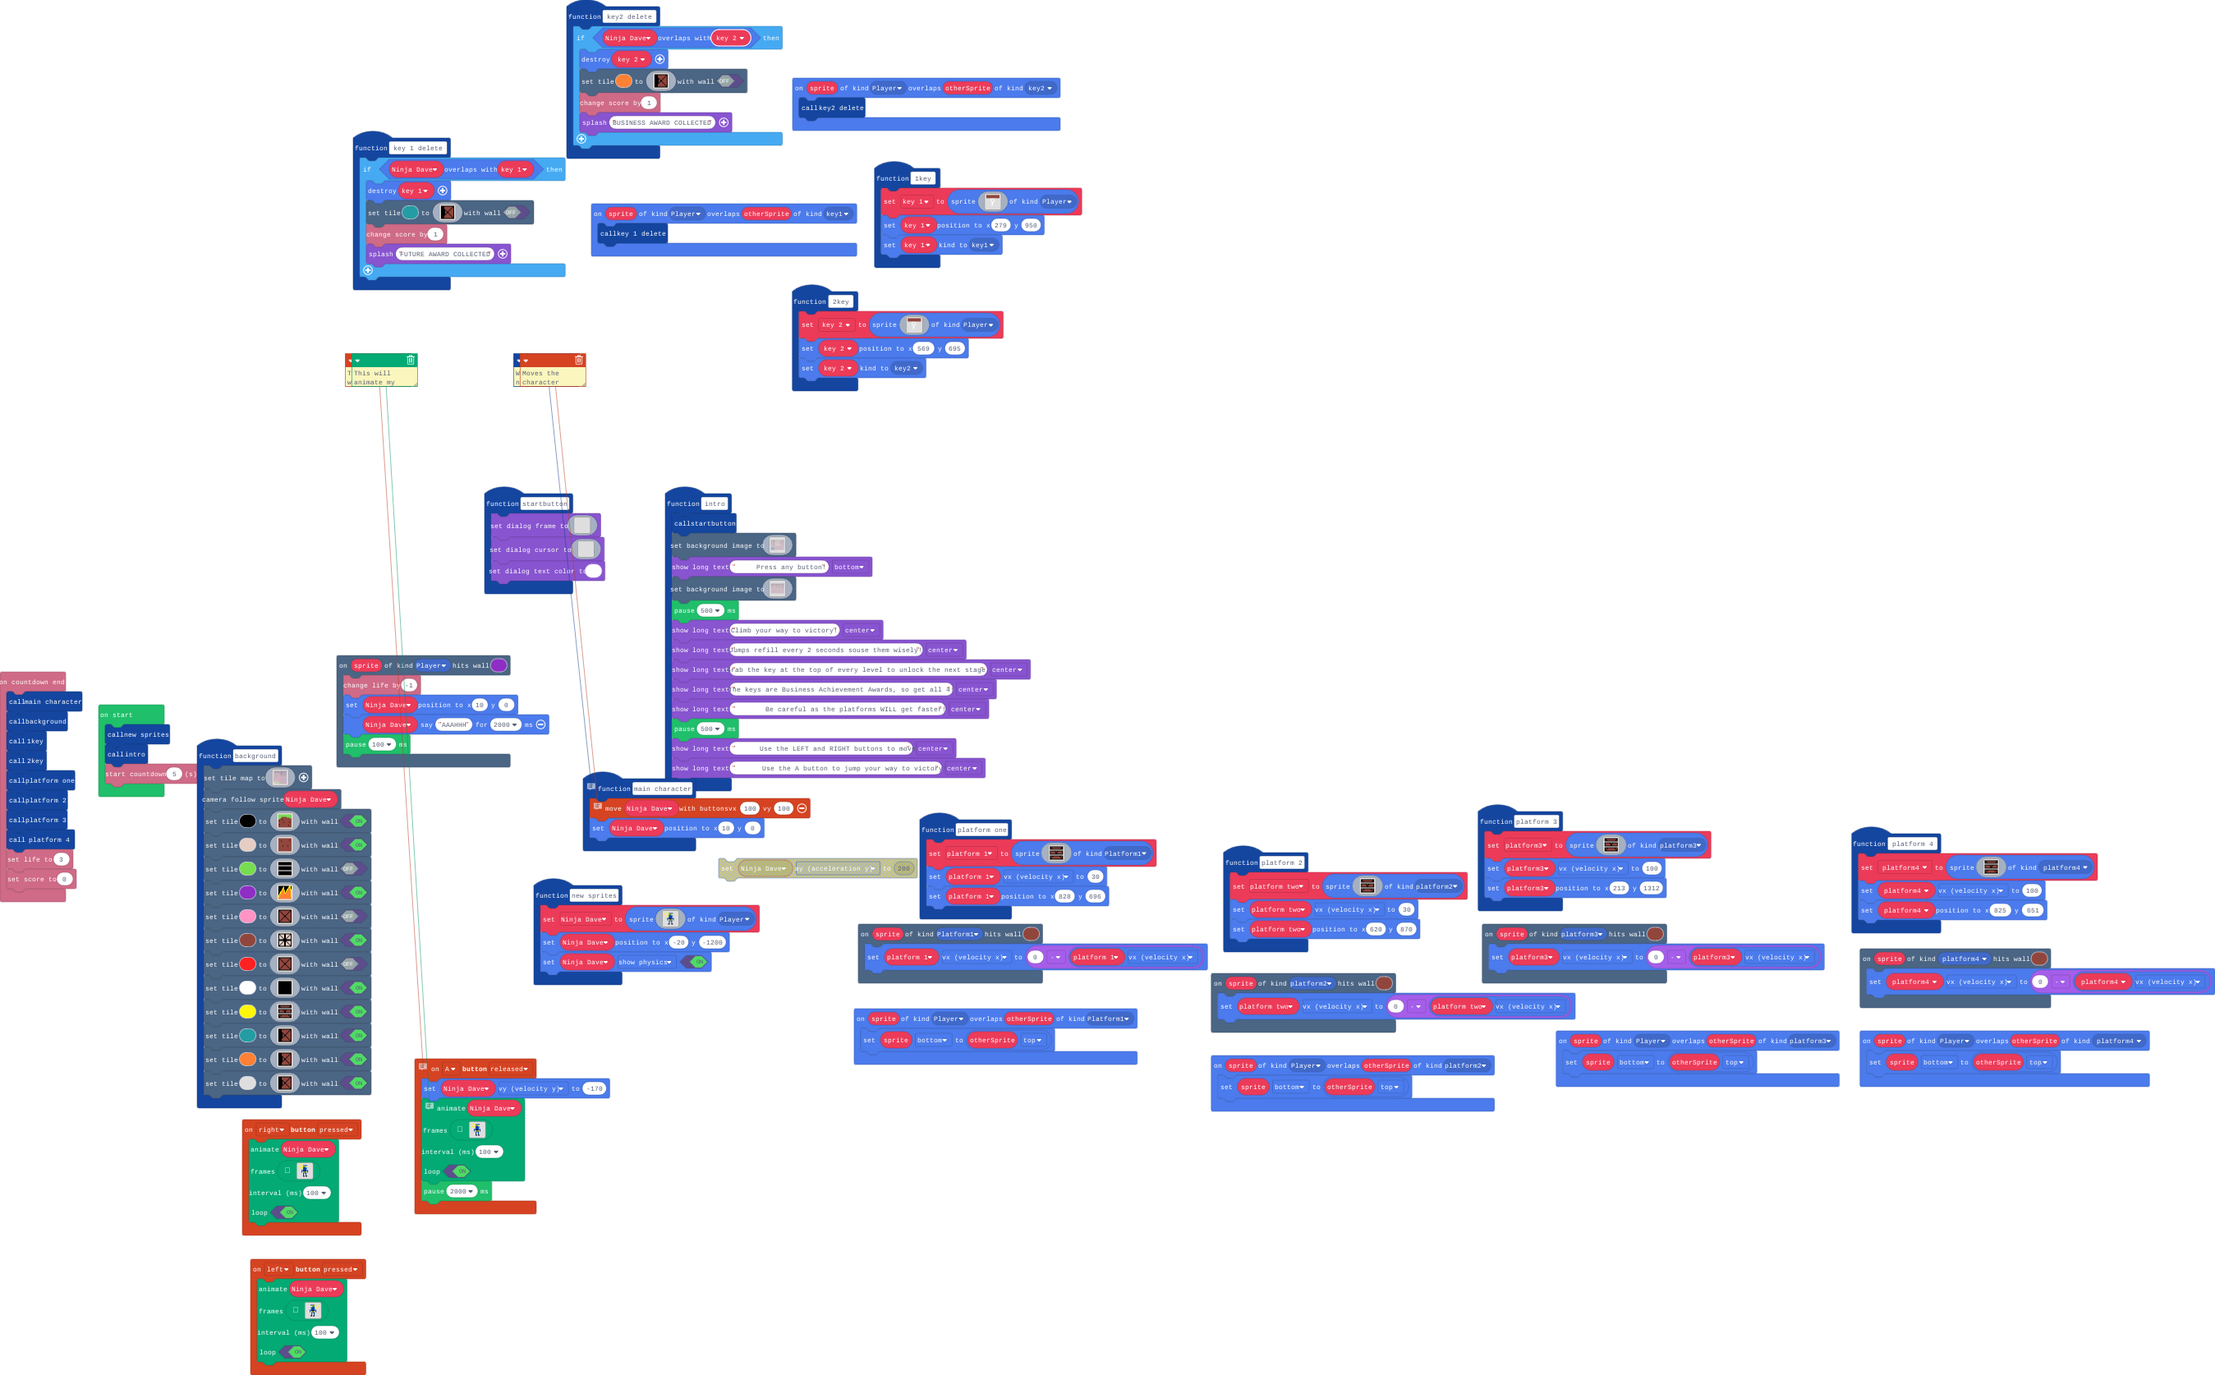
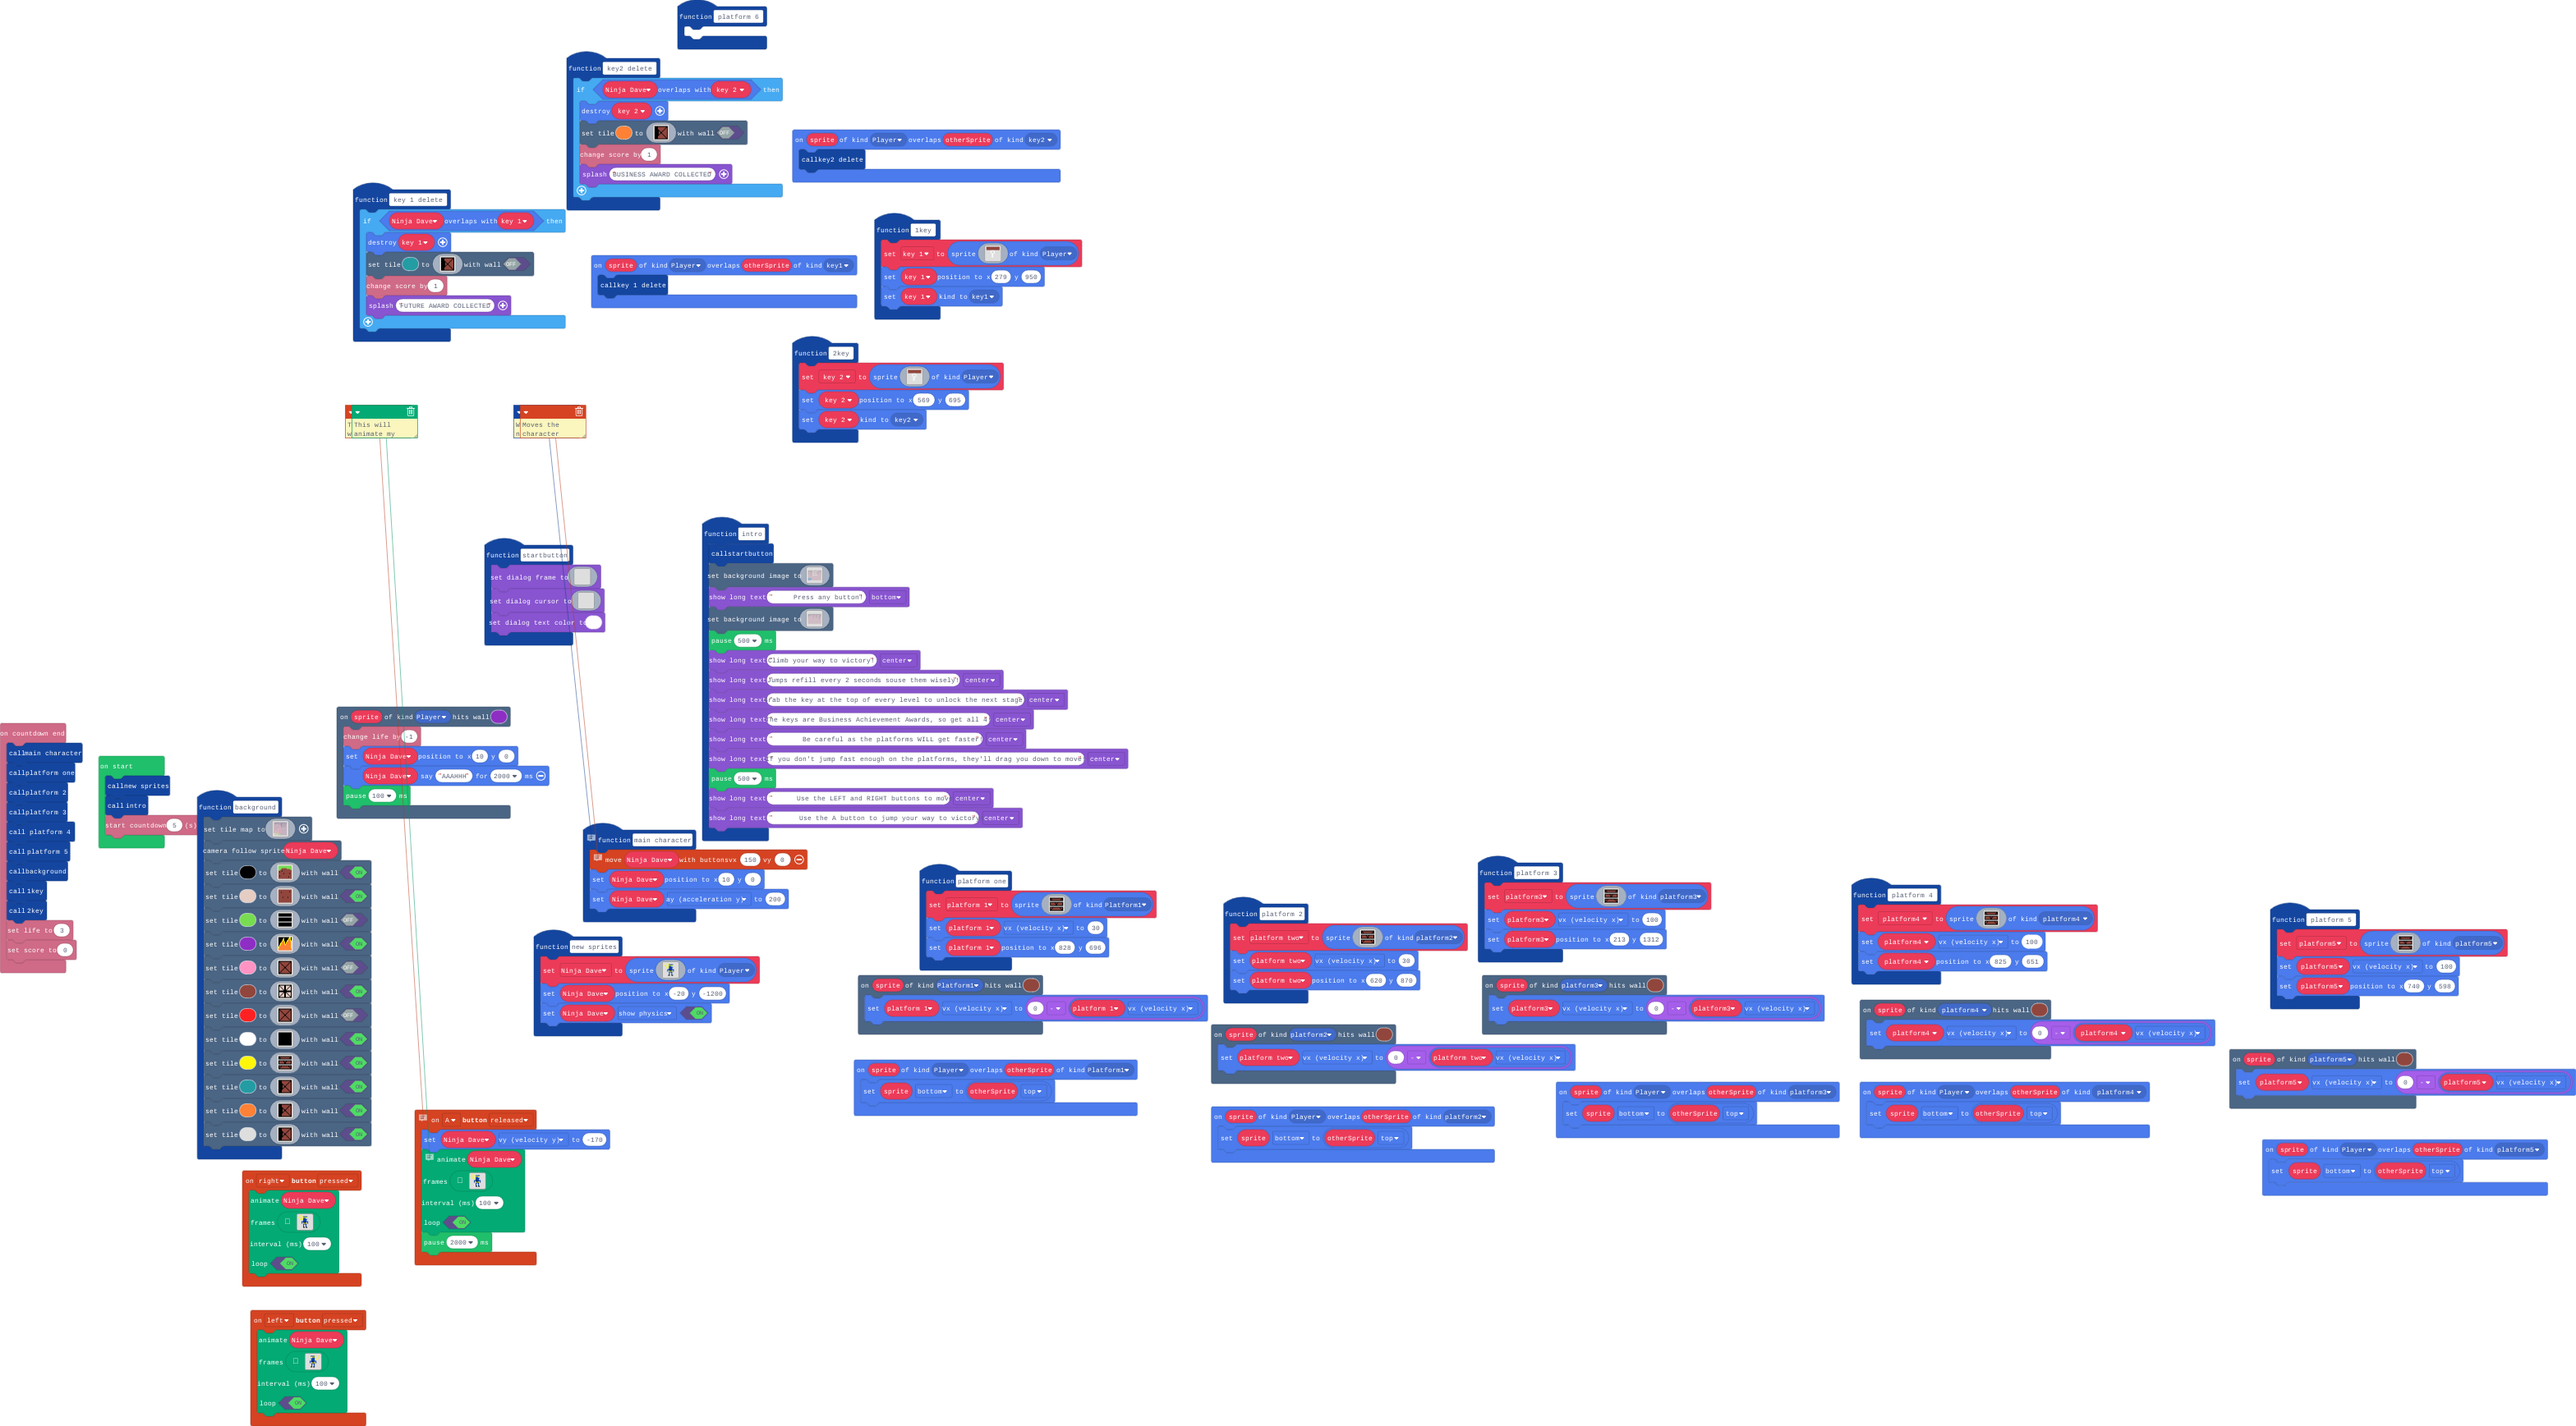
added new platforms

Changed region(s): [[0.0, 0.3417, 1.0, 1.0], [0.1246, 0.0, 0.4983, 0.3106]]

diff --git a/main.ts b/main.ts
@@ -5,59 +5,42 @@ namespace SpriteKind {
     export const key1 = SpriteKind.create()
     export const key2 = SpriteKind.create()
     export const platform4 = SpriteKind.create()
+    export const platform5 = SpriteKind.create()
 }
 scene.onHitTile(SpriteKind.Platform1, 14, function (sprite) {
     platform_1.vx = 0 - platform_1.vx
 })
-function _1key () {
-    key_1 = sprites.create(img`
-e e e e e e e e e e e e e e e e 
-e e e e e e e e e e e e e e e e 
-e e e e e e e e e e e e e e e e 
-e e e e e e e e e e e e e e e e 
-. . . . . . 1 1 1 . . . . . . . 
-. . . . . 1 . . . 1 . . . . . . 
-. . . . . 1 . . . 1 . . . . . . 
-. . . . . 1 . . . 1 . . . . . . 
-. . . . . . 1 1 1 . . . . . . . 
-. . . . . . . 1 . . . . . . . . 
-. . . . . . 1 1 . . . . . . . . 
-. . . . . . . 1 . . . . . . . . 
-. . . . . . 1 1 . . . . . . . . 
-. . . . . . . . . . . . . . . . 
-. . . . . . . . . . . . . . . . 
-. . . . . . . . . . . . . . . . 
-`, SpriteKind.Player)
-    key_1.setPosition(279, 950)
-    key_1.setKind(SpriteKind.key1)
+function platform_6 () {
+	
 }
-function _2key () {
-    key_2 = sprites.create(img`
-e e e e e e e e e e e e e e e e 
-e e e e e e e e e e e e e e e e 
-e e e e e e e e e e e e e e e e 
-e e e e e e e e e e e e e e e e 
-. . . . . . 1 1 1 . . . . . . . 
-. . . . . 1 . . . 1 . . . . . . 
-. . . . . 1 . . . 1 . . . . . . 
-. . . . . 1 . . . 1 . . . . . . 
-. . . . . . 1 1 1 . . . . . . . 
-. . . . . . . 1 . . . . . . . . 
-. . . . . . 1 1 . . . . . . . . 
-. . . . . . . 1 . . . . . . . . 
-. . . . . . 1 1 . . . . . . . . 
-. . . . . . . . . . . . . . . . 
-. . . . . . . . . . . . . . . . 
-. . . . . . . . . . . . . . . . 
-`, SpriteKind.Player)
-    key_2.setPosition(569, 695)
-    key_2.setKind(SpriteKind.key2)
+function platform_5 () {
+    platform5 = sprites.create(img`
+f f f f f f f f f f f f f f f f 
+f f e e e e e e e e e e e e f f 
+f e f e e e e e e e e e e f e f 
+f f f f f f f f f f f f f f f f 
+1 1 1 1 1 1 1 1 1 1 1 1 1 1 1 1 
+f f f f f f f f f f f f f f f f 
+f e e e e e f e e f e e e e e f 
+f e e e e e e f f e e e e e e f 
+f e e e e e e f f e e e e e e f 
+f f f f f f f f f f f f f f f f 
+1 1 1 1 1 1 1 1 1 1 1 1 1 1 1 1 
+f f f f f f f f f f f f f f f f 
+f e e f e e e e e e e e f e e f 
+f e f e e e e e e e e e e f e f 
+f f e e e e e e e e e e e e f f 
+f f f f f f f f f f f f f f f f 
+`, SpriteKind.platform5)
+    platform5.vx = 100
+    platform5.setPosition(740, 598)
 }
 // Will create ninja
 function main_character () {
     // Moves the character
-    controller.moveSprite(Ninja_Dave, 100, 100)
+    controller.moveSprite(Ninja_Dave, 150, 0)
     Ninja_Dave.setPosition(10, 0)
+    Ninja_Dave.ay = 200
 }
 function key2_delete () {
     if (Ninja_Dave.overlapsWith(key_2)) {
@@ -210,6 +193,28 @@ controller.left.onEvent(ControllerButtonEvent.Pressed, function () {
     true
     )
 })
+function _2key () {
+    key_2 = sprites.create(img`
+e e e e e e e e e e e e e e e e 
+e e e e e e e e e e e e e e e e 
+e e e e e e e e e e e e e e e e 
+e e e e e e e e e e e e e e e e 
+. . . . . . 1 1 1 . . . . . . . 
+. . . . . 1 . . . 1 . . . . . . 
+. . . . . 1 . . . 1 . . . . . . 
+. . . . . 1 . . . 1 . . . . . . 
+. . . . . . 1 1 1 . . . . . . . 
+. . . . . . . 1 . . . . . . . . 
+. . . . . . 1 1 . . . . . . . . 
+. . . . . . . 1 . . . . . . . . 
+. . . . . . 1 1 . . . . . . . . 
+. . . . . . . . . . . . . . . . 
+. . . . . . . . . . . . . . . . 
+. . . . . . . . . . . . . . . . 
+`, SpriteKind.Player)
+    key_2.setPosition(569, 695)
+    key_2.setKind(SpriteKind.key2)
+}
 function startbutton () {
     game.setDialogFrame(img`
 . . . . . . . . . . . . . . . 
@@ -507,6 +512,7 @@ b b b b b b b b b b b b b b b b b b b b b b b b b b b b b b b b b b b b b b b b 
     game.showLongText("Grab the key at the top of every level to unlock the next stage!", DialogLayout.Center)
     game.showLongText("The keys are Business Achievement Awards, so get all 4!", DialogLayout.Center)
     game.showLongText("         Be careful as the platforms WILL get faster!", DialogLayout.Center)
+    game.showLongText("If you don't jump fast enough on the platforms, they'll drag you down to move!", DialogLayout.Center)
     pause(500)
     game.showLongText("        Use the LEFT and RIGHT buttons to move", DialogLayout.Center)
     game.showLongText("         Use the A button to jump your way to victory!", DialogLayout.Center)
@@ -562,19 +568,19 @@ function background () {
 2 2 1 b b b b b b b b b b b b b b b b b b b b b b b b b b b b e 3 3 3 3 3 3 3 e e e e e e e 3 3 3 3 3 3 e b b b b b b b b b b b b b b b b b b b b b b b b b b b b b b b b b b b b b b b b b b b b b b b 
 2 2 1 b b b b b b b b b b b b b b b b b b b b b b b b b b b b e 5 3 3 3 3 3 3 e b b b b b e 3 3 3 3 3 3 e b b b b b b b b b b b b b b b b b b b b b b b b b b b b b b b b b b b b b b b b b b b b b b b 
 2 2 1 b b b b b b b b b b b b b b b b b b b b b b b b b b b b e 3 3 3 3 3 3 3 e b b b b b e 3 3 3 3 3 3 e b b b b b b b b b b b b b b b b b b b b b b b b b b b b b b b b b b b b b b b b b b b b b b b 
-2 2 1 b b b b b b b b b b b b b b b b b b b b b b b b b b b b e 3 3 3 3 3 3 5 e b b b b b e 3 3 3 3 3 3 e b b b b b b b b b b b b b b b b b b b b b b b b b b b b b b b b b b b b b b b b b b b b b b b 
+2 2 1 b b b b b b b b b b b b b b b b b b b b b b b b b b b b e 3 3 3 3 3 3 3 e b b b b b e 3 3 3 3 3 3 e b b b b b b b b b b b b b b b b b b b b b b b b b b b b b b b b b b b b b b b b b b b b b b b 
 2 2 1 b b b b b b b b b b b b b b b b b b b b b b b b b b b b e 5 3 3 3 3 3 3 e b b b b b e 3 3 3 3 3 3 e b b b b b b b b b b b b b b b b b b b b b b b b b b b b b b b b b b b b b b b b b b b b b b b 
 2 2 1 b b b b b b b b b b b b b b b b b b b b b b b b b b b b e 3 3 3 3 3 3 3 e b b b b b e 3 3 3 3 3 3 e b b b b b b b b b b b b b b b b b b b b b b b b b b b b b b b b b b b b b b b b b b b b b b b 
-2 2 1 b b b b b b b b b b b b b b b b b b b b b b b b b b b b e 3 3 3 3 3 3 5 e b b b b b e 3 3 3 3 3 3 e b b b b b b b b b b b b b b b b b b b b b b b b b b b b b b b b b b b b b b b b b b b b b b b 
 2 2 1 b b b b b b b b b b b b b b b b b b b b b b b b b b b b e 3 3 3 3 3 3 3 e b b b b b e 3 3 3 3 3 3 e b b b b b b b b b b b b b b b b b b b b b b b b b b b b b b b b b b b b b b b b b b b b b b b 
 2 2 1 b b b b b b b b b b b b b b b b b b b b b b b b b b b b e 3 3 3 3 3 3 3 e b b b b b e 3 3 3 3 3 3 e b b b b b b b b b b b b b b b b b b b b b b b b b b b b b b b b b b b b b b b b b b b b b b b 
 2 2 1 b b b b b b b b b b b b b b b b b b b b b b b b b b b b e 3 3 3 3 3 3 3 e b b b b b e 3 3 3 3 3 3 e b b b b b b b b b b b b b b b b b b b b b b b b b b b b b b b b b b b b b b b b b b b b b b b 
 2 2 1 b b b b b b b b b b b b b b b b b b b b b b b b b b b b e 3 3 3 3 3 3 3 e b b b b b e 3 3 3 3 3 3 e b b b b b b b b b b b b b b b b b b b b b b b b b b b b b b b b b b b b b b b b b b b b b b b 
 2 2 1 b b b b b b b b b b b b b b b b b b b b b b b b b b b b e 3 3 3 3 3 3 3 e b b b b b e 3 3 3 3 3 3 e b b b b b b b b b b b b b b b b b b b b b b b b b b b b b b b b b b b b b b b b b b b b b b b 
-2 2 1 b b b b b b b b b e e e e e e e e e e b b b b b b b b b e 3 3 3 3 3 3 3 e b b b b b e 3 3 3 3 3 3 e b b b b b b b b b b b b b b b b b b b b b b b b b b b b b b b b b b b b b b b b b b b b b b b 
+2 2 1 b b b b b b b b b b b b b b b b b b b b b b b b b b b b e 3 3 3 3 3 3 3 e b b b b b e 3 3 3 3 3 3 e b b b b b b b b b b b b b b b b b b b b b b b b b b b b b b b b b b b b b b b b b b b b b b b 
+2 2 1 b b b b b b b b b e e e e e e e e e e b b b b b b b b b e 5 3 3 3 3 3 3 e b b b b b e 3 3 3 3 3 3 e b b b b b b b b b b b b b b b b b b b b b b b b b b b b b b b b b b b b b b b b b b b b b b b 
 2 2 1 b b b b b b b b b e 3 3 3 3 3 3 3 3 e b b b b b b b b b e 3 3 3 3 3 3 3 e b b b b b e 3 3 3 3 3 3 e b b b b b b b b b b b b b b b b b b b b b b b b b b b b b b b b b b b b b b b b b b b b b b b 
 2 2 1 b b b b b b b b b e 3 3 3 3 3 3 3 3 e e e e e e e e e e e 3 3 3 3 3 3 3 e b b b b b e 3 3 3 3 3 3 e b b b b b b b b b b b b b b b b b b b b b b b b b b b b b b b b b b b b b b b b b b b b b b b 
-2 2 1 b b b b b b b b b e 3 3 3 3 3 3 3 3 6 3 3 3 3 3 3 3 3 3 3 3 3 3 3 3 3 3 e b b b b b e 3 3 3 3 3 3 e b b b b b b b b b b b b b b b b b b b b b b b b b b b b b b b b b b b b b b b b b b b b b b b 
+2 2 1 b b b b b b b b b e 3 3 3 3 3 3 3 3 6 3 3 3 3 3 3 3 3 3 3 3 3 3 3 3 3 5 e b b b b b e 3 3 3 3 3 3 e b b b b b b b b b b b b b b b b b b b b b b b b b b b b b b b b b b b b b b b b b b b b b b b 
 2 2 1 b b b b b b b b b e 5 3 3 3 3 3 3 3 6 3 3 3 3 3 3 3 3 3 3 3 3 3 3 3 3 3 e b b b b b e 3 3 3 3 3 3 e b b b b b b b b b b b b b b b b b b b b b b b b b b b b b b b b b b b b b b b b b b b b b b b 
 2 2 1 b b b b b b b b b e 3 3 3 3 3 3 3 3 e e e e e e e e e e e 3 3 3 3 3 3 3 e b b b b b e 3 3 3 3 3 3 e b b b b b b b b b b b b b b b b b b b b b b b b b b b b b b b b b b b b b b b b b b b b b b b 
 2 2 1 b b b b b b b b b e 3 3 3 3 5 3 3 3 e b b b b b b b b b e 3 3 3 3 3 3 3 e b b b b b e 3 3 3 3 3 3 e b b b b b b b b b b b b b b b b b b b b b b b b b b b b b b b b b b b b b b b b b b b b b b b 
@@ -835,9 +841,37 @@ f f f f f f f f f f f f f f f f
 sprites.onOverlap(SpriteKind.Player, SpriteKind.platform4, function (sprite, otherSprite) {
     sprite.bottom = otherSprite.top
 })
+scene.onHitTile(SpriteKind.platform5, 14, function (sprite) {
+    platform5.vx = 0 - platform5.vx
+})
 scene.onHitTile(SpriteKind.platform4, 14, function (sprite) {
     platform4.vx = 0 - platform4.vx
 })
+sprites.onOverlap(SpriteKind.Player, SpriteKind.platform5, function (sprite, otherSprite) {
+    sprite.bottom = otherSprite.top
+})
+function _1key () {
+    key_1 = sprites.create(img`
+e e e e e e e e e e e e e e e e 
+e e e e e e e e e e e e e e e e 
+e e e e e e e e e e e e e e e e 
+e e e e e e e e e e e e e e e e 
+. . . . . . 1 1 1 . . . . . . . 
+. . . . . 1 . . . 1 . . . . . . 
+. . . . . 1 . . . 1 . . . . . . 
+. . . . . 1 . . . 1 . . . . . . 
+. . . . . . 1 1 1 . . . . . . . 
+. . . . . . . 1 . . . . . . . . 
+. . . . . . 1 1 . . . . . . . . 
+. . . . . . . 1 . . . . . . . . 
+. . . . . . 1 1 . . . . . . . . 
+. . . . . . . . . . . . . . . . 
+. . . . . . . . . . . . . . . . 
+. . . . . . . . . . . . . . . . 
+`, SpriteKind.Player)
+    key_1.setPosition(279, 950)
+    key_1.setKind(SpriteKind.key1)
+}
 function platform_2 () {
     platform_two = sprites.create(img`
 f f f f f f f f f f f f f f f f 
@@ -1003,13 +1037,14 @@ scene.onHitTile(SpriteKind.platform2, 14, function (sprite) {
 })
 info.onCountdownEnd(function () {
     main_character()
-    background()
-    _1key()
-    _2key()
     platform_one()
     platform_2()
     platform_3()
     platform_4()
+    platform_5()
+    background()
+    _1key()
+    _2key()
     info.setLife(3)
     info.setScore(0)
 })
@@ -1250,10 +1285,11 @@ scene.onHitTile(SpriteKind.platform3, 14, function (sprite) {
 })
 let platform3: Sprite = null
 let platform_two: Sprite = null
-let platform4: Sprite = null
-let Ninja_Dave: Sprite = null
-let key_2: Sprite = null
 let key_1: Sprite = null
+let platform4: Sprite = null
+let key_2: Sprite = null
+let Ninja_Dave: Sprite = null
+let platform5: Sprite = null
 let platform_1: Sprite = null
 new_sprites()
 intro()
